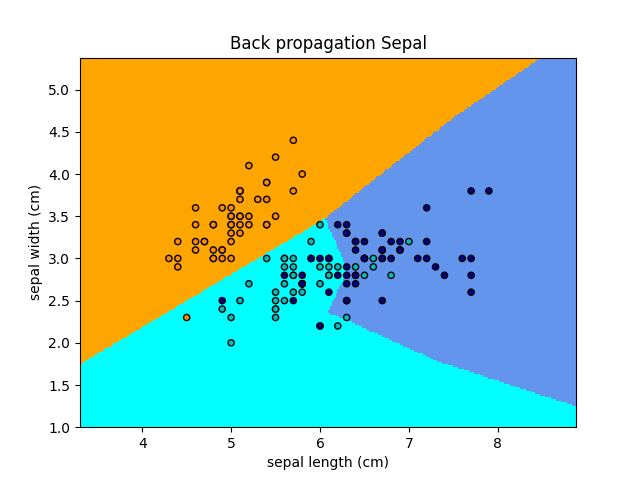
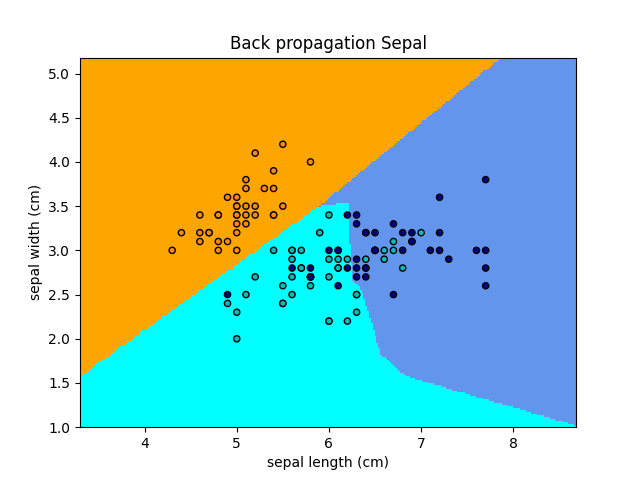
wip report, also changed some plotting in main

diff --git a/A/main.py b/A/main.py
@@ -93,67 +93,35 @@ if __name__ == "__main__":
     plotData(0,1,"Iris classification according to Sepal measurements")
     plotData(2,3,"Iris classification according to Petal measurements")
 
-
     print("Performing Decision Tree             ", end="    ")
-    model = dtree.decisionTree(iris)
-    makeTestPrediction(model, iris)
-    dtree.plotDecisionTree(iris, model)
-    plotClf(model, iris, "Decision Tree Petal", plotSepal=False)
-    plotClf(model, iris, "Decision Tree Sepal", plotSepal=True)
-
-    print("Performing Decision Tree Max Depth 4 ", end="    ")
-    model = dtree.decisionTree(iris, max_depth=4)
-    makeTestPrediction(model, iris)
-    plotClf(model, iris, "Decision Tree Petal Max depth 4", plotSepal=False)
-    plotClf(model, iris, "Decision Tree Sepal Max depth 4", plotSepal=True)
-
-    print("Performing K Nearest Neighbors       ", end="    ")
-    model = knn.kNearestNeighbors(iris, 3)
-    makeTestPrediction(model, iris)
-    plotClf(model, iris, "Knn Petal", plotSepal=False)
-    plotClf(model, iris, "Knn Sepal", plotSepal=True)
-
-    print("Performing K Means Clustering        ", end="    ")
-    model = kmeansclustering.kMeansClustering(iris, numberOfClusters=3)
-    makeTestPrediction(model, iris) # This is off because the index of the clusters don't match
-    kmeansclustering.plotKMeansClustering(model, iris, "K Means Clustering Petal", plotSepal=False)
-    kmeansclustering.plotKMeansClustering(model, iris, "K Means Clustering Sepal", plotSepal=True)
-    
-    print("Performing Back propagation          ", end="    ")
-    model = bp.backPropagation(X_train, X_test, y_train, y_test)
-    makeTestPrediction(model, iris)
-    plotClf(model, iris, "Back propagation Sepal", plotSepal=True)
-    plotClf(model, iris, "Back propagation Petal", plotSepal=False)
-
-    print("Split Performing Decision Tree             ", end="    ")
     model = dtree.decisionTree(irisSplit)
     makeTestPrediction(model, irisSplit)
     dtree.plotDecisionTree(irisSplit, model)
-    plotClf(model, irisSplit, "Split Decision Tree Petal", plotSepal=False)
-    plotClf(model, irisSplit, "Split Decision Tree Sepal", plotSepal=True)
+    plotClf(model, irisSplit, "Decision Tree Petal", plotSepal=False)
+    plotClf(model, irisSplit, "Decision Tree Sepal", plotSepal=True)
 
-    print("Split Performing Decision Tree Max Depth 4 ", end="    ")
+    print("Performing Decision Tree Max Depth 4 ", end="    ")
     model = dtree.decisionTree(irisSplit, max_depth=4)
     makeTestPrediction(model, irisSplit)
-    plotClf(model, irisSplit, "Split Decision Tree Petal Max depth 4", plotSepal=False)
-    plotClf(model, irisSplit, "Split Decision Tree Sepal Max depth 4", plotSepal=True)
+    plotClf(model, irisSplit, "Decision Tree Petal Max depth 4", plotSepal=False)
+    plotClf(model, irisSplit, "Decision Tree Sepal Max depth 4", plotSepal=True)
 
-    print("Split Performing K Nearest Neighbors       ", end="    ")
+    print("Performing K Nearest Neighbors       ", end="    ")
     model = knn.kNearestNeighbors(irisSplit, 3)
     makeTestPrediction(model, irisSplit)
-    plotClf(model, irisSplit, "Split Knn Petal", plotSepal=False)
-    plotClf(model, irisSplit, "Split Knn Sepal", plotSepal=True)
+    plotClf(model, irisSplit, "Knn Petal", plotSepal=False)
+    plotClf(model, irisSplit, "Knn Sepal", plotSepal=True)
 
-    print("Split Performing K Means Clustering        ", end="    ")
+    print("Performing K Means Clustering        ", end="    ")
     model = kmeansclustering.kMeansClustering(irisSplit, numberOfClusters=3)
     makeTestPrediction(model, irisSplit) # This is off because the index of the clusters don't match
-    kmeansclustering.plotKMeansClustering(model, irisSplit, "Split K Means Clustering Petal", plotSepal=False)
-    kmeansclustering.plotKMeansClustering(model, irisSplit, "Split K Means Clustering Sepal", plotSepal=True)
+    kmeansclustering.plotKMeansClustering(model, irisSplit, "K Means Clustering Petal", plotSepal=False)
+    kmeansclustering.plotKMeansClustering(model, irisSplit, "K Means Clustering Sepal", plotSepal=True)
     
-    print("Split Performing Back propagation          ", end="    ")
+    print("Performing Back propagation          ", end="    ")
     model = bp.backPropagation(X_train, X_test, y_train, y_test)
     makeTestPrediction(model, irisSplit)
-    plotClf(model, irisSplit, "Split Back propagation Sepal", plotSepal=True)
-    plotClf(model, irisSplit, "Split Back propagation Petal", plotSepal=False)
+    plotClf(model, irisSplit, "Back propagation Sepal", plotSepal=True)
+    plotClf(model, irisSplit, "Back propagation Petal", plotSepal=False)
 
 # TODO: k Means Clustering

diff --git a/report.md b/report.md
@@ -8,17 +8,19 @@ _Two to three pages_
 
 ### What you did
 
-Part A of this project was designed to teach about different classification algorithms. Several different classification algorithms were used on the famous Iris dataset to predict the species of an Iris given the sepal width, sepal height, petal width, and petal height. These classification algorithms include the decision tree, k-nearest neighbors, neural networks through backpropagation, and k-means clustering algorithms. These algorithms were implemented through [Scikit-learn](https://scikit-learn.org/stable/index.html).</br>
+Part A of this project was designed to teach about different classification algorithms. Several different classification algorithms were used on the famous Iris dataset to predict the species of an Iris given the sepal width, sepal length, petal width, and petal length. These classification algorithms include the decision tree, k-nearest neighbors, neural networks through backpropagation, and k-means clustering algorithms. These algorithms were implemented through [Scikit-learn](https://scikit-learn.org/stable/index.html).</br>
 
-This project was developed using [Python 3.7.7](https://www.python.org/downloads/release/python-370/) and [Scikit-learn](https://scikit-learn.org/stable/index.html). Additionally, the machine used to build and run the code is running MacOs Mojave (v10.14.6).</br>
+This project was developed using [Python 3.7.7](https://www.python.org/downloads/release/python-370/) and [Scikit-Learn](https://scikit-learn.org/stable/index.html). Additionally, the machine used to build and run the code is running MacOs Mojave (v10.14.6).</br>
 
-The Iris dataset is comprised of 150 samples, and each sample records the width and height of both the petal and sepal. To visualize these samples, two graphs were created: one comparing petal width and height, the other comparing sepal width and height. The following shows these relationships and the categorization of each data point.</br>
+The Iris dataset is comprised of 150 samples, and each sample records the width and length of both the petal and sepal. To visualize these samples, two graphs were created: one comparing petal width and length, the other comparing sepal width and length. The following images show these relationships and the categorization of each data point.</br>
 
 Petal                                                                       |  Sepal
 :--------------------------------------------------------------------------:|:--------------------------------------------------------------------------:
 ![Graph](A/images/Iris-classification-according-to-Petal-measurements.png)  |  ![Graph](A/images/Iris-classification-according-to-Sepal-measurements.png)
 
+On these graphs, it is important to note that datapoints of different categories can overlap. For instance, there are two datapoints at sepal length 5.9 and sepal width 3, but one is categorized as versicolor and the other virginica. Taken without the petal length and width, it is impossible to distinguish these two points into seperate categories. </br>
 
+For each algorithm, the Iris data set was split into test data and training data using the ```train_test_split``` method from SciKit-Learn. Twenty percent of samples were saved for testing data, where the other samples were used for training data. Next the models were fit to the training data, and test samples were passed in to check for accuracy. To better visualize the results of these algorithms, the models were then fit to petal data and sepal data independently and graphed.
 
 ### Results
 
